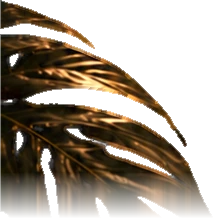
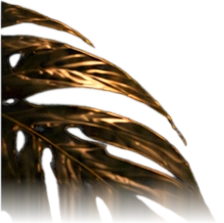
Como foi: folhas recortadas do PNG com transparência real (bordas limpas)
Claude-Session: https://claude.ai/code/session_018srAHrESznkWRHoACDe2BQ

Changed region(s): [[0.0, 0.0, 0.9417, 0.9908], [0.9417, 0.9633, 0.9686, 0.9908], [0.3767, 0.8257, 0.4036, 0.8532]]

diff --git a/src/components/como-foi/Folhas.tsx b/src/components/como-foi/Folhas.tsx
@@ -6,10 +6,10 @@ import { useEffect, useRef } from "react";
 // tela (onde o corte da imagem fica escondido), entra "brotando" e balança no próprio ritmo, girando a partir
 // do ponto onde encosta. Ao rolar a página, o conjunto desliza de leve.
 const PECAS = {
-  a: { w: 295, h: 277, py: 0.45, amp: 1.6 },
-  b: { w: 223, h: 218, py: 0.35, amp: 2.3 },
-  c: { w: 187, h: 257, py: 0.5, amp: 2.8 },
-  d: { w: 230, h: 242, py: 0.45, amp: 2.3 },
+  a: { w: 295, h: 280, py: 0.45, amp: 1.6 },
+  b: { w: 224, h: 223, py: 0.35, amp: 2.3 },
+  c: { w: 188, h: 258, py: 0.5, amp: 2.8 },
+  d: { w: 231, h: 243, py: 0.45, amp: 2.3 },
 } as const;
 type Peca = keyof typeof PECAS;
 
